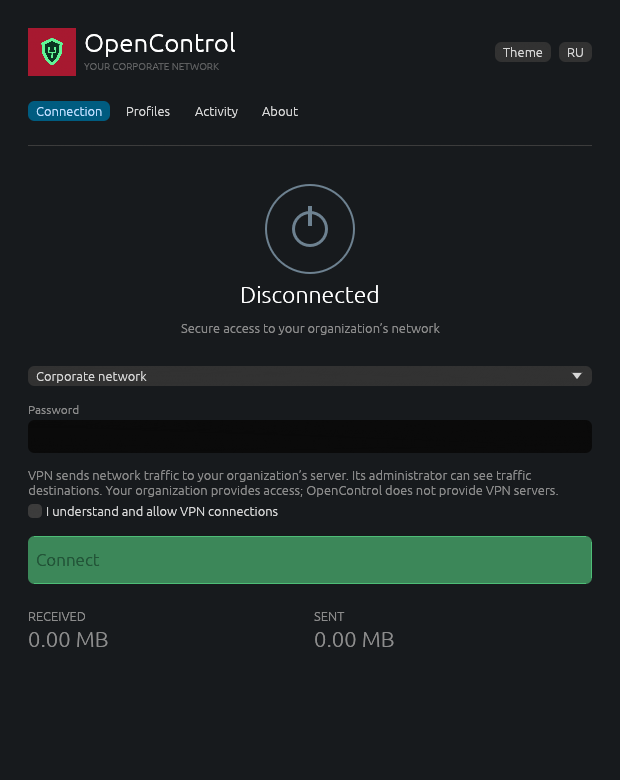
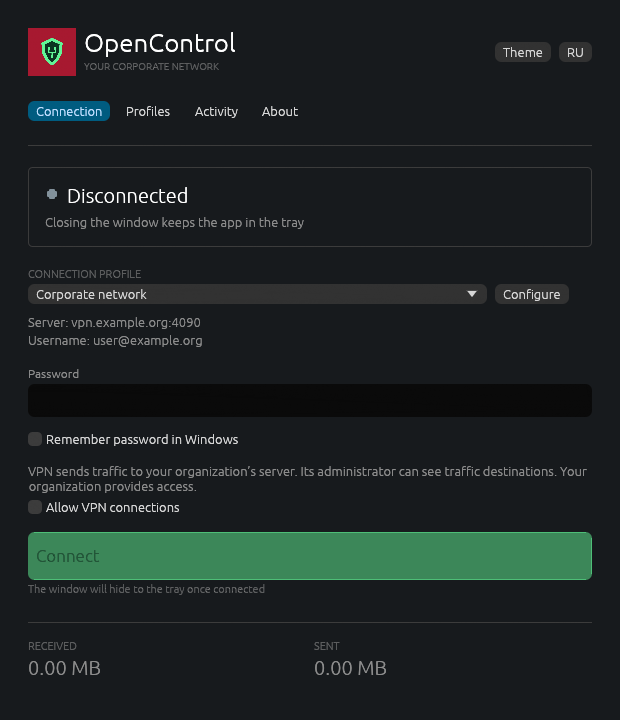
Publish Windows 0.3.0 guides and release notes

diff --git a/RELEASE_NOTES.md b/RELEASE_NOTES.md
@@ -1,31 +1,39 @@
-# OpenControl Windows 0.2.0
+# OpenControl Windows 0.3.0
 
 ## Русский
 
-- При нажатии «Подключиться» сертификат автоматически запрашивается, если доверие ещё не настроено. После однократной проверки SHA-256 и подтверждения подключение продолжается автоматически. Пароль до подтверждения не передаётся.
-- Изменившийся сертификат требует нового подтверждения; просроченный — отдельного согласия. Проверка TLS не отключается.
-- После успешного подключения окно скрывается в трей. Зелёная галочка означает активный VPN, красный крестик — отсутствие соединения. Левый щелчок открывает окно; меню содержит открытие, отключение и выход.
-- HiDPI: PerMonitorV2, масштабируемые значки состояния; проверен программный рендер RU/EN на 100/125/150/200% и изменение масштаба одного контекста.
-- Ярлыки в меню «Пуск» и на рабочем столе устанавливаются по умолчанию.
-- Импорт соединений Kerio, включая сохранённые D3S-пароли с последующей защитой DPAPI, сохранён. Личные соединения в пакет не включены.
-- Три MSI: x86, x64, ARM64. В каждом приложении есть русский и английский; установщик на русском. Без пользовательского split tunneling.
+- Исправлены значки ярлыков рабочего стола и меню «Пуск»: MSI теперь содержит корректный PE-ресурс значка с расширением `.exe`.
+- Исправлен значок панели задач: окно явно назначает большой значок Windows в дополнение к значку заголовка.
+- Значок трея существует постоянно с запуска до выхода, в том числе без VPN. Зелёная галочка означает подключение, красный крестик — отсутствие соединения.
+- Крестик окна скрывает приложение в трей без отключения VPN. Левый щелчок по значку открывает окно, «Выход» в меню трея отключает VPN и завершает клиент. Windows может поместить значок в область скрытых значков; его положение регулируется настройками панели задач.
+- Главное окно стало компактнее: статус, профиль, сервер и логин, кнопка настройки и сохранение пароля доступны на экране подключения.
+- Фирменные изображения установщика в стиле OpenControl Client: логотип, тёмно-зелёная панель и зелёные акценты. Ярлыки «Пуск» и рабочего стола устанавливаются по умолчанию.
+- Сохранены автоматический запрос сертификата с подтверждением доверия, импорт Kerio с сохранёнными паролями, HiDPI и RU/EN.
 
-Rust stable 1.99.1, OpenControl Protocol 0.2.0, официальный подписанный Wintun 0.14.1.
-EXE/MSI не имеют подписи издателя. Проверяйте SHA256SUMS. Перед обновлением закройте клиент.
-Предварительный выпуск: реальный корпоративный VPN, установка/обновление на чистой Windows,
-физический ARM64 и перенос окна между физическими мониторами требуют приёмки.
+Три MSI: x86, x64, ARM64; оба языка приложения в каждом. Установщик на русском.
+Перед обновлением выберите **«Выход» в меню трея** старой версии. Если старый ярлык был
+закреплён на панели задач вручную, после обновления при необходимости закрепите новый.
+
+30 автоматических тестов, три сборки и проверки MSI. EXE/MSI не подписаны издателем;
+встроен официальный подписанный Wintun 0.14.1. Проверяйте SHA256SUMS.
+Предварительный выпуск: реальный корпоративный VPN, чистая установка/обновление,
+физический ARM64 и интерактивная проверка панели задач/трея требуют приёмки.
 
 ## English
 
-- Connect automatically retrieves the server certificate when trust is not configured. After a one-time SHA-256 review and trust confirmation, connection continues automatically. No password is sent before confirmation.
-- Replaced certificates require a new review; expired certificates require separate consent. TLS verification remains enabled.
-- Successful connections hide the window to the tray. A green check means connected; a red cross means disconnected. Left-click opens the window; the menu provides Open, Disconnect and Exit.
-- HiDPI: PerMonitorV2 and scaled status icons; RU/EN headless rendering checked at 100/125/150/200%, including scale changes in one context.
-- Start menu and desktop shortcuts are installed by default.
-- Kerio connection import, including saved D3S passwords rewrapped with DPAPI, remains available. No personal connections are included.
-- Three MSI packages: x86, x64 and ARM64. Every application includes Russian and English; the installer is Russian. No user split-tunneling controls.
+- Fixed desktop and Start menu shortcut icons: the MSI now embeds a valid PE icon resource with the `.exe` extension.
+- Fixed the taskbar icon: the window explicitly sets the Windows large icon in addition to its title-bar icon.
+- The tray icon exists from startup until Exit, even with no VPN connection. A green check means connected; a red cross means disconnected.
+- Closing the window hides it to the tray without disconnecting VPN. Left-click opens it; tray Exit disconnects VPN and quits. Windows may place the icon in notification overflow; placement is controlled by taskbar settings.
+- A more compact main window groups status, profile, server, username, Configure and Remember password on the connection screen.
+- OpenControl Client installer artwork: original logo, dark green panel and green accents. Start menu and desktop shortcuts are installed by default.
+- Automatic certificate review with explicit trust confirmation, saved-password Kerio import, HiDPI and RU/EN remain available.
 
-Rust stable 1.99.1, OpenControl Protocol 0.2.0, official signed Wintun 0.14.1.
-EXE/MSI have no publisher signature. Verify SHA256SUMS and close the client before upgrading.
-Preview release: live corporate VPN, clean Windows installation/upgrade, physical ARM64 and
-moving between physical mixed-DPI monitors still require acceptance.
+Three MSI packages: x86, x64 and ARM64; both application languages in every package.
+The installer is Russian. Choose **Exit in the old version’s tray menu** before upgrading.
+If you manually pinned an old shortcut to the taskbar, repin the updated shortcut if needed.
+
+30 automated tests, three native builds and MSI checks. EXE/MSI have no publisher signature;
+official signed Wintun 0.14.1 is included. Verify SHA256SUMS.
+Preview release: live corporate VPN, clean installation/upgrade, physical ARM64 and
+interactive taskbar/tray acceptance remain pending.

diff --git a/README.md b/README.md
@@ -20,7 +20,7 @@
 
 Один MSI на архитектуру, установщик на русском. В приложении оба языка доступны
 по кнопке RU/EN. Windows 11 не имеет 32-битной редакции; для неё используйте x64
-или ARM64. Требуются права администратора. Сначала закройте клиент при обновлении
+или ARM64. Требуются права администратора. Сначала выберите «Выход» в меню трея при обновлении
 или удалении. Установщик включает официальный подписанный Wintun 0.14.1.
 Отдельно устанавливать драйвер не нужно; адаптер создаётся при подключении.
 Ярлыки в меню «Пуск» и на рабочем столе создаются по умолчанию для всех пользователей.
@@ -45,7 +45,9 @@ EXE/MSI проекта пока не имеют Authenticode-подписи из
 
 ## Трей и масштаб интерфейса
 
-После успешного подключения окно автоматически скрывается в системный трей.
+Значок трея присутствует с запуска до выхода, в том числе без подключения.
+Крестик окна скрывает его в трей и сохраняет VPN. После успешного подключения
+окно также автоматически скрывается.
 Зелёная галочка означает активный VPN; красный крестик — отсутствие соединения,
 включая попытки восстановления. Левый щелчок открывает окно. Правый щелчок открывает
 меню «Открыть OpenControl», «Отключить», «Выход». Выход сначала отключает VPN.
@@ -70,14 +72,14 @@ EXE/MSI проекта пока не имеют Authenticode-подписи из
 
 ## Границы первой версии
 
-Это первая предварительная версия 0.2.0. Автоматические тесты и сборки не заменяют
+Это первая предварительная версия 0.3.0. Автоматические тесты и сборки не заменяют
 проверку с вашим Kerio Control. Проверка на реальном корпоративном сервере и на
 физическом ARM64-устройстве пока не подтверждена. См. [проверки](VALIDATION.md).
 
 Протокол передаёт IPv4; внешний адрес сервера должен разрешаться в IPv4. При
 полном IPv4-маршруте глобальный IPv6 направляется в адаптер и отбрасывается.
 Общесистемного kill switch нет: между переподключениями обычная сеть доступна.
-Закрытие клиента отключает VPN; фоновой службы и автозапуска до входа в Windows нет.
+«Выход» в меню трея отключает VPN; фоновой службы и автозапуска до входа в Windows нет.
 Поведение DNS Windows зависит также от системной и корпоративной политики.
 
 Настройки находятся в `%LOCALAPPDATA%\OpenControl\profiles.json`. Пароли сохраняются
@@ -108,3 +110,7 @@ EXE/MSI проекта пока не имеют Authenticode-подписи из
 Итог импорта показывает количество добавленных и пропущенных записей.
 
 Для неподдерживаемых или повреждённых записей пароля импорт показывает необходимость ручного ввода. Пароли не отображаются при предварительном просмотре и не записываются в журнал.
+
+Windows может поместить значок в область скрытых значков. Чтобы он был рядом с часами, включите его отображение в настройках панели задач.
+
+Главное окно показывает сервер и логин выбранного профиля. Кнопка «Настроить» открывает профиль; сохранение пароля доступно прямо на экране подключения.

diff --git a/README.en.md b/README.en.md
@@ -20,7 +20,7 @@ Find your system type in Settings → System → About:
 
 One MSI per architecture, with a Russian installer. Both languages are available in
 the app via RU/EN. Windows 11 has no 32-bit edition; use x64 or ARM64. Administrator
-permission is required. Close the client before upgrading or uninstalling.
+permission is required. Choose Exit in the tray before upgrading or uninstalling.
 The installer includes official signed Wintun 0.14.1; the adapter is created on connection.
 Start menu and desktop shortcuts are installed by default for all users.
 
@@ -45,7 +45,9 @@ Manual certificate inspection remains available in Profiles.
 
 ## Tray and display scaling
 
-After a successful connection the window automatically hides to the system tray.
+The tray icon exists from startup until Exit, including while disconnected.
+Closing the window hides it to the tray and keeps VPN running. Successful connections
+also hide the window automatically.
 A green check means VPN is connected; a red cross means disconnected, including
 reconnection attempts. Left-click opens the window. Right-click offers Open OpenControl,
 Disconnect and Exit. Exit disconnects VPN before closing. If the tray icon is
@@ -70,14 +72,14 @@ monitor acceptance remains pending.
 
 ## Initial release limits
 
-0.2.0 is a preview. Automated tests and builds do not substitute for testing against
+0.3.0 is a preview. Automated tests and builds do not substitute for testing against
 your Kerio Control. Live corporate-server and physical ARM64-device acceptance are
 not yet confirmed. See [validation](VALIDATION.md).
 
 The protocol transports IPv4, and the outer server must resolve to IPv4. When the
 server requests a full IPv4 tunnel, global IPv6 is routed into the adapter and dropped.
 There is no system-wide kill switch: ordinary networking remains available between
-reconnection attempts. Closing the app disconnects VPN; there is no background
+reconnection attempts. Exit from the tray disconnects VPN; there is no background
 service or pre-login autostart. Windows DNS behavior also depends on OS and corporate policies.
 
 Settings are stored in `%LOCALAPPDATA%\OpenControl\profiles.json`. Retained passwords
@@ -108,3 +110,7 @@ entries are skipped; existing profiles are never replaced. Maximum 100 profiles.
 The result shows added and skipped counts.
 
 Unsupported or damaged password entries are marked for manual entry. Passwords are not shown in the preview or written to logs.
+
+Windows may place the icon in its notification overflow. Enable it in taskbar settings to keep it next to the clock.
+
+The main window shows the selected server and username. Configure opens profile settings; Remember password is available directly on the connection screen.

diff --git a/VALIDATION.md b/VALIDATION.md
@@ -1,4 +1,4 @@
-# Validation / Проверки — 0.2.0
+# Validation / Проверки — 0.3.0
 
 Date / Дата: 2026-10-15.
 
@@ -8,7 +8,7 @@ Date / Дата: 2026-10-15.
 | Protocol dependency | 0.2.0, upstream HEAD `35a5c848fb2a25a64da36268026906ce3757b974` |
 | Formatting / Форматирование | Passed / Пройдено |
 | Clippy all targets, warnings denied | Passed / Пройдено |
-| Unit + ROUTES regression tests | 28 passed / 28 пройдено |
+| Unit + ROUTES regression tests | 30 passed / 30 пройдено |
 | Native release builds | x86, x64, ARM64 passed |
 | MSI platform and language | 3 packages: Intel/x64/Arm64; installer 1049; application RU/EN |
 | Extracted EXE | Matches release build SHA256; PE machine 014c/8664/aa64 |
@@ -49,3 +49,7 @@ D3S compatibility: independent synthetic .NET TripleDES vectors, ASCII/UTF-8, in
 
 Native tray interaction, Explorer restart, physical monitor changes and real VPN connection are not exercised by headless rendering. These remain manual acceptance items.
 Работа нативного трея, перезапуск Explorer, смена физических мониторов и реальное VPN-подключение не проверяются программным рендером и требуют ручной приёмки.
+
+0.3.0: two added regression tests verify that closing a window with a tray preserves the session cancellation token and that unavailable-tray cleanup does not leave an unreachable active session. Windows ExtractIconEx checks both large and small icons from the EXE and the MSI icon stream. The extracted MSI icon stream must match the release EXE; branding BMPs must match the source artwork. Actual main-window RU/EN renders at 100/125/150/200% and narrow width were inspected. Native Windows icon extraction is not a full installed-shell acceptance test.
+
+0.3.0: два новых теста проверяют сохранение сессии при закрытии окна в трей и безопасное завершение при недоступном трее. Windows ExtractIconEx проверяет большие и малые значки EXE и потока значка MSI. Поток значка MSI должен совпадать с EXE сборки; BMP оформления — с исходными изображениями. Проверен рендер нового главного окна RU/EN на 100/125/150/200% и при узкой ширине. Извлечение значков Windows не заменяет проверку установленного приложения в оболочке.
